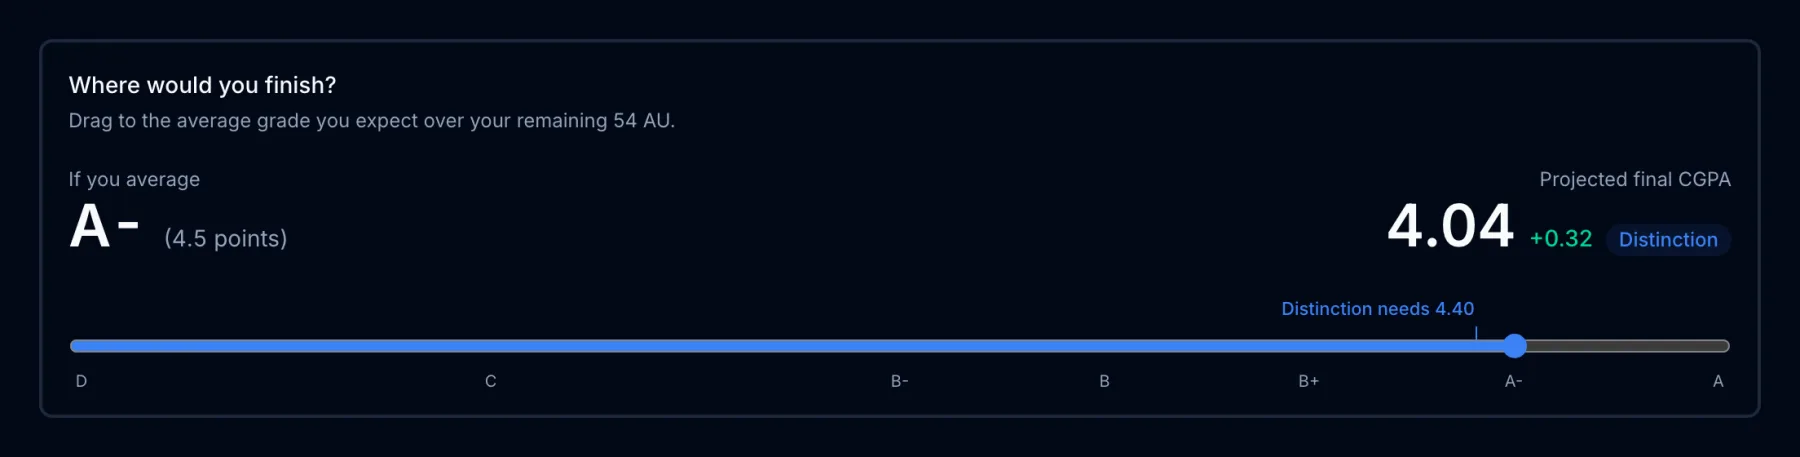
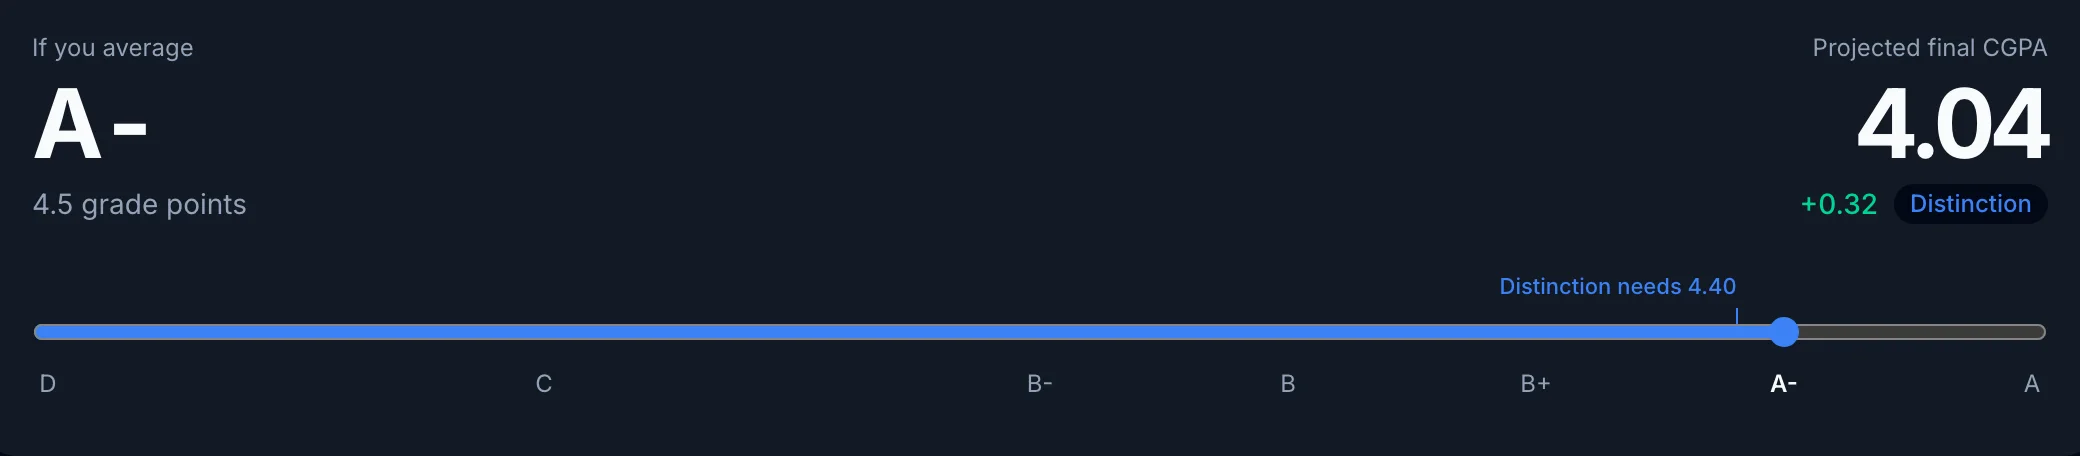
Retake article screenshots after the tools, exams and timetable restyle
The CGPA, FGO, exam schedule and timetable screenshots predated the
Oct 18 restyle. Recapture all ten light/dark pairs at matching sizes,
using an AY2026 S2 plan with valid indexes. Point the CGPA guide at the
Choose PDF button, which replaced Fill from transcript PDF.

diff --git a/content/articles/ntu-cgpa-planner-guide.md b/content/articles/ntu-cgpa-planner-guide.md
@@ -27,7 +27,7 @@ The planner needs three numbers.
 | AU done | The AU behind that CGPA. Count letter-graded modules only. Leave out Pass, No Record and exempted modules, because they are not part of your CGPA. |
 | AU left | The AU you still expect to take for a letter grade. Subtract any AU you plan to put under the [Flexible Grading Option](/articles/ntu-fgo-su-option-guide), since those will not count either. |
 
-If you would rather not add up AU by hand, choose **Fill from transcript PDF** and select the official transcript from the Self-Help Transcript System (linked from the [NTU student portals guide](/articles/ntu-student-portal-links)). The planner reads the PDF inside your browser and fills in your CGPA and letter-graded AU. Nothing is uploaded. You still enter **AU left** yourself, because the transcript does not know your remaining plan.
+If you would rather not add up AU by hand, choose **Choose PDF** in the upload box above the form and select the official transcript from the Self-Help Transcript System (linked from the [NTU student portals guide](/articles/ntu-student-portal-links)). The planner reads the PDF inside your browser and fills in your CGPA and letter-graded AU. Nothing is uploaded. You still enter **AU left** yourself, because the transcript does not know your remaining plan.
 
 Not ready to use your own numbers? **Try with sample data** fills in a CGPA of 3.72 with 78 AU done and 54 AU left, which is the example used in the rest of this guide.
 
